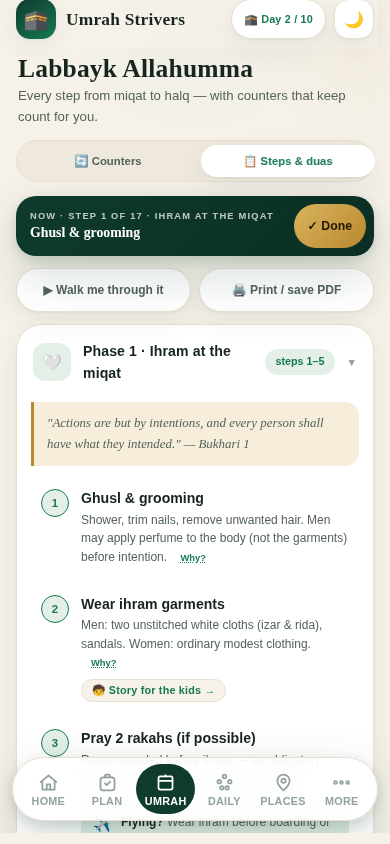
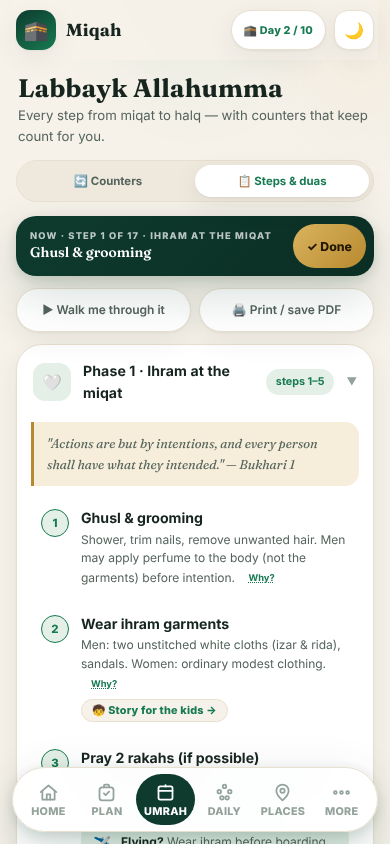
Rename to Miqah
The product is now "Miqah" everywhere a user or a store sees it; the
infrastructure (umrah-strivers.vercel.app, APP_URL, localStorage keys,
cache name, calendar UIDs) is unchanged so existing installs keep working.

- index.html: title, apple-mobile-web-app-title, application-name,
  description, og:title / og:site_name, header wordmark with the tagline
  "Hajj & Umrah companion", About card and correction-mail subject
- app.js: home brand strip, share texts, group-setup text, route and
  itinerary share footers, prayer-times share and .ics branding,
  keepsake / progress-card / certificate wordmark, print sheet, backup
  file name; "sister app of Ramadan Strivers" kept
- manifest.json: name and short_name "Miqah", description mentions
  Hajj & Umrah; twa-manifest.json: packageId com.miqah.app, name and
  launcherName "Miqah"; well-known/assetlinks.json: package_name
- install.html and privacy.html: titles, brand and copy
- README.md: titled Miqah with a note that the repository name is
  historical; LAUNCH.md: store title "Miqah: Hajj & Umrah" and package id
- Store art regenerated with the new wordmark and the tagline
  "Hajj · Umrah · learn, remind, assist": feature graphic, Open Graph
  image, six app screenshots and the framed listing shots; Kaaba mark
  unchanged
- test/smoke.js: brand assertions updated, a new check for the title,
  wordmark and tagline; the compass check also accepts the no-compass
  copy because current headless Chromium denies motion permission
[…]

diff --git a/app.js b/app.js
@@ -1,6 +1,6 @@
-/* Umrah Strivers — application logic */
+/* Miqah — application logic */
 /* Release note: bump APP_VERSION here AND in sw.js for every release (the SW cache name is derived from it). */
-var APP_VERSION='4.15.0';
+var APP_VERSION='5.0.0';
 var APP_URL='https://umrah-strivers.vercel.app/';
 /* ════════════════════════ STATE ════════════════════════ */
 var ST={day:1,tripLen:10,theme:'light',tab:'home',dep:'',umrahs:0,tawaf:0,sai:0,quizBest:0,city:'Makkah'};
@@ -880,7 +880,7 @@ function drawRoute(city){var el=document.getElementById('route-'+city);if(!el)re
 function shareRoute(city){var lr=lastRoute[city];if(!lr)return;var from=originFor(city),route=lr.ids.map(placeById).filter(Boolean),cur=from,lines=[];
   route.forEach(function(p,i){var km=(from&&p.ll)?hav(cur,p.ll):null;if(p.ll)cur=p.ll;lines.push((i+1)+'. '+p.n+(p.ar?' ('+p.ar+')':'')+(km!==null?' — ≈ '+kmStr(km):''));});
   var wp=route.filter(function(p){return p.ll;}).map(function(p){return p.ll[0]+','+p.ll[1];}),url=wp.length?'https://www.google.com/maps/dir/?api=1'+(from?'&origin='+from[0]+','+from[1]:'')+'&destination='+wp[wp.length-1]+(wp.length>1?'&waypoints='+wp.slice(0,-1).join('|'):''):'';
-  shareText('Ziyarah route · '+CITY_N[city],'🧭 Ziyarah route · '+CITY_N[city]+'\n'+lines.join('\n')+'\n(planned with Umrah Strivers)',url);}
+  shareText('Ziyarah route · '+CITY_N[city],'🧭 Ziyarah route · '+CITY_N[city]+'\n'+lines.join('\n')+'\n(planned with Miqah)',url);}
 /* L-05: the same offline driver card serves the hotel and every place (Arabic name in big type) */
 function showDriverCard(o){var tp=document.getElementById('drvTop');if(tp)tp.textContent=o.top||'🚕 Please take me here';
   var lead=document.getElementById('drvLead');if(lead)lead.textContent=o.lead||'من فضلك خذني إلى';
@@ -935,7 +935,7 @@ function exportData(){
   var ls={};for(var i=0;i<localStorage.length;i++){var k=localStorage.key(i);if(k&&k.indexOf('us-')===0&&k!=='us-ptcache'&&k!=='us-remlast')ls[k]=localStorage.getItem(k);}
   var data={v:3,exported:new Date().toISOString(),settings:ST,plan:planChk,rites:riteChk,daily:dailyChk,places:placeVis,badges:earned,ls:ls};
   var b=new Blob([JSON.stringify(data,null,2)],{type:'application/json'});
-  var a=document.createElement('a');a.href=URL.createObjectURL(b);a.download='umrah-strivers-'+new Date().toISOString().slice(0,10)+'.json';document.body.appendChild(a);a.click();setTimeout(function(){a.remove();},500);
+  var a=document.createElement('a');a.href=URL.createObjectURL(b);a.download='miqah-'+new Date().toISOString().slice(0,10)+'.json';document.body.appendChild(a);a.click();setTimeout(function(){a.remove();},500);
   toast('📤 Backup exported');
 }
 function importData(ev){
@@ -1073,7 +1073,7 @@ function renderHome(){
     h+=fcHTML+quoteHTML+'<div class="card card-pad"><h3>Common questions</h3>'+faqHTML+'</div>'+shareHTML;
   }else{
     /* ── dashboard (H-01): brand strip → status → continue / do next → prayer → tools → cards → quote → compact stages → about ── */
-    h+='<div class="hbrand"><span class="hb-n">🕋 Umrah Strivers</span><small>free · offline · private</small>'+installHTML+'</div>';
+    h+='<div class="hbrand"><span class="hb-n">🕋 Miqah</span><small>free · offline · private</small>'+installHTML+'</div>';
     h+=statusHTML;
     /* H-04: one Continue card — in-progress count, then the sa'i hand-off, then an unfinished day log, then today's flashcard */
     var cont='',fcUsed=false;
@@ -1319,7 +1319,7 @@ function sharePrep(){
   var keys=['passport','visa','menacwy','nusuk','rawdah','insurance',ST.profile==='w'?'abaya':'ihram'];
   lines.push('Key items: '+keys.map(function(k){return (planChk[k]?'✓':'✗')+' '+KL[k];}).join(' · '));
   var B=tlBuckets();if(B&&B.over.length)lines.push('Overdue: '+B.over.length+(B.blocking?' ('+B.blocking+' travel-blocking)':''));
-  lines.push('via Umrah Strivers');
+  lines.push('via Miqah');
   shareText('Umrah readiness',lines.join('\n'),APP_URL);
 }
 function renderCatTiles(){
@@ -1471,7 +1471,7 @@ function itReset(idx){var it=itinST();delete it.custom[idx];saveST();renderItin(
 function shareItin(){var base=ST.dep?new Date(ST.dep+'T00:00:00'):null,it=itinST();
   var lines=[(ST.name?ST.name+'’s':'Our')+' Umrah itinerary · '+ST.tripLen+' days'+(base?' from '+fmtDate(ST.dep):'')+(it.pace==='family'?' · family pace':'')];
   itinDays().forEach(function(d,idx){var dt=base?new Date(base.getTime()+idx*86400000).toLocaleDateString('en-GB',{weekday:'short',day:'numeric',month:'short'})+' · ':'';lines.push('Day '+(idx+1)+' · '+dt+(d.city==='Makkah'?'🕋':'🕌')+' '+d.city+' — '+d.e[0]+' '+d.e[1]);});
-  lines.push('via Umrah Strivers');shareText('Umrah itinerary',lines.join('\n'),APP_URL);}
+  lines.push('via Miqah');shareText('Umrah itinerary',lines.join('\n'),APP_URL);}
 
 var ITIN_PLACES={'Tan’eem':'taneem','Ji’ranah':'jiranah','Quba Avenue':'qubasq','Quba':'quba','Uhud':'uhud','Rawdah':'rawdah','Abyar Ali':'miqat','Hira':'hira','Arafat':'arafat','Muzdalifah':'muzdalifah','Mina':'mina','Thawr':'thawr','Baqi’':'baqi','Qiblatayn':'qiblatain','Trench':'khandaq','Hijaz Railway':'hijazrail','Masjid al-Jinn':'jinn','Jannat al-Mu’alla':'mualla','Masjid al-Ijabah':'ijabah','Clock Tower museum':'clock','Quran & Seerah museums':'quranmuseum','Hijr Isma’il':'hijr','Zamzam':'zamzam'};
 var ITIN_RE=new RegExp(Object.keys(ITIN_PLACES).sort(function(a,b){return b.length-a.length;}).map(function(k){return k.replace(/[.*+?^${}()|[\]\\]/g,'\\$&');}).join('|'),'g');
@@ -1487,7 +1487,7 @@ function shareCard(){
   var pv=Object.keys(placeVis).filter(function(k){return placeVis[k];}).length,tb=tbTotal();
   var nt=0;for(var j=1;j<=ST.tripLen;j++){var dd=dailyChk['d'+j];if(dd)nt+=(dd.ntawafN||(dd.ntawaf?1:0));}
   x.textAlign='center';x.font='100px serif';x.fillText('🕋',540,200);
-  x.font='700 40px Georgia,serif';x.fillStyle='#D9B45E';x.fillText('UMRAH STRIVERS',540,280);
+  x.font='700 40px Georgia,serif';x.fillStyle='#D9B45E';x.fillText('MIQAH',540,280);
   x.font='700 56px Georgia,serif';x.fillStyle='#fff';x.fillText((ST.name||'My')+(ST.name?'’s':'')+' journey · Day '+ST.day+' of '+ST.tripLen,540,365);
   var tiles=[[ST.umrahs,'Umrahs'],[nt,'nafl tawafs'],[(logged?Math.round(sum/logged):0)+'%','avg. daily deeds'],[pv,'places visited'],[tb,'dhikr counted'],[streakOf('fajr'),'Fajr streak'],[logged,'days logged']];
   tiles.forEach(function(t,i){var cx=230+(i%3)*310,cy=500+Math.floor(i/3)*190;x.fillStyle='rgba(255,255,255,.08)';x.beginPath();x.roundRect(cx-130,cy-80,260,160,28);x.fill();x.fillStyle='#EFD494';x.font='700 58px Georgia,serif';x.fillText(String(t[0]),cx,cy+6);x.fillStyle='rgba(255,255,255,.7)';x.font='23px Inter,sans-serif';x.fillText(t[1],cx,cy+50);});
@@ -1541,8 +1541,8 @@ function renderVault(){
 /* ════════════════════════ HELPERS ════════════════════════ */
 function jumpTo(id,quiet){var el=document.getElementById(id);if(!el)return;var off=118,strip=document.getElementById('riteNow');if(strip&&el.closest&&el.closest('#sub-umrah-steps')&&strip.offsetParent)off+=strip.offsetHeight+8;var y=el.getBoundingClientRect().top+window.scrollY-off;window.scrollTo({top:Math.max(0,y),behavior:'smooth'});if(!quiet)vib(8);}
 function shareApp(){
-  var data={title:'Umrah Strivers',text:'Plan, learn, perform & track your Umrah — rites walkthrough, tawaf counter, prayer times, ziyarah places & a knowledge quiz. Free, offline, private.',url:APP_URL};
-  if(ST.dep){var dt=new Date(ST.dep+'T00:00:00').toLocaleDateString('en-GB',{weekday:'long',day:'numeric',month:'long'});data.url=APP_URL+'?dep='+ST.dep;data.text='We fly on '+dt+'. Install Umrah Strivers (free, offline, no account): 1) open the link and Add to Home Screen, 2) set the departure date to '+dt+', 3) do the Prepare checklist and pass Quiz levels 1–3 before we go.';}
+  var data={title:'Miqah',text:'Miqah — Hajj & Umrah companion. Plan, learn, perform & track your Umrah — rites walkthrough, tawaf counter, prayer times, ziyarah places & a knowledge quiz. Free, offline, private.',url:APP_URL};
+  if(ST.dep){var dt=new Date(ST.dep+'T00:00:00').toLocaleDateString('en-GB',{weekday:'long',day:'numeric',month:'long'});data.url=APP_URL+'?dep='+ST.dep;data.text='We fly on '+dt+'. Install Miqah (free, offline, no account): 1) open the link and Add to Home Screen, 2) set the departure date to '+dt+', 3) do the Prepare checklist and pass Quiz levels 1–3 before we go.';}
   if(navigator.share){navigator.share(data).catch(function(){});}
   else if(navigator.clipboard){navigator.clipboard.writeText(data.text+' '+data.url).then(function(){toast('🔗 Link copied — share it with your group');}).catch(function(){toast(data.url);});}
   else toast(data.url);
@@ -1569,7 +1569,7 @@ var pendingGroup=null;
 function shareSetup(){var hi=ST.hotelInfo||{};
   var g={by:ST.name||'',dep:ST.dep||'',tripLen:ST.tripLen,itin:ST.itin||null,city:ST.city||'Makkah',hotelInfo:hi,hotel:ST.hotel||null};
   var url=APP_URL+'#g='+btoa(encodeURIComponent(JSON.stringify(g)));
-  var txt=(ST.name?ST.name+'’s':'Our')+' Umrah trip setup'+(ST.dep?' — flying '+fmtDate(ST.dep,true):'')+(hi.n?' · '+hi.n:'')+'. Open the link on your phone and tap Apply: it sets the dates, itinerary and hotel card in Umrah Strivers (free, offline). Your own checklists are untouched.';
+  var txt=(ST.name?ST.name+'’s':'Our')+' Umrah trip setup'+(ST.dep?' — flying '+fmtDate(ST.dep,true):'')+(hi.n?' · '+hi.n:'')+'. Open the link on your phone and tap Apply: it sets the dates, itinerary and hotel card in Miqah (free, offline). Your own checklists are untouched.';
   shareText('Umrah trip setup',txt,url);}
 function parseGroupLink(){var h=location.hash||'';if(h.indexOf('#g=')!==0)return null;var out=null;
   try{var g=JSON.parse(decodeURIComponent(atob(h.slice(3))));if(g&&typeof g==='object'){out={};['by','dep','tripLen','itin','city','hotelInfo','hotel'].forEach(function(k){if(g[k]!==undefined)out[k]=g[k];});}}catch(e){out=null;}
@@ -1729,7 +1729,7 @@ function makeCertGo(){
   x.strokeStyle='rgba(217,180,94,.4)';x.lineWidth=2;x.strokeRect(70,70,940,1210);
   x.textAlign='center';x.fillStyle='#EFD494';
   x.font='120px serif';x.fillText('🕋',540,270);
-  x.font='700 44px Georgia,serif';x.fillStyle='#D9B45E';x.fillText('UMRAH STRIVERS',540,370);
+  x.font='700 44px Georgia,serif';x.fillStyle='#D9B45E';x.fillText('MIQAH',540,370);
   x.font='italic 30px Georgia,serif';x.fillStyle='rgba(255,255,255,.7)';x.fillText('Certificate of Knowledge',540,425);
   x.font='700 72px Georgia,serif';x.fillStyle='#FFFFFF';x.fillText(name,540,580);
   x.strokeStyle='rgba(217,180,94,.6)';x.lineWidth=2;x.beginPath();x.moveTo(240,620);x.lineTo(840,620);x.stroke();
@@ -1911,7 +1911,7 @@ function walkDone(){var L=riteList(),x=L[walkI];if(x&&!riteChk[x.st.id])togRite(
 function closeWalk(quiet){var L=riteList(),x=L[walkI];walkOpen=false;document.getElementById('walk').classList.remove('on');document.body.style.overflow='';
   if(!quiet){if(x)openRiteStep(x.st.id);else{setSecOpen('ph4',true);jumpTo('riteDone',true);}}}
 /* U-14: a printable briefing — rites with duas, the packing list and the emergency numbers */
-function buildPrint(){var e=document.getElementById('printSheet');if(!e)return;var hi=ST.hotelInfo||{},n=0,h='<h1>🕋 Umrah Strivers — rites &amp; duas</h1><p class="pr-sub">Printed '+new Date().toLocaleDateString('en-GB',{day:'numeric',month:'long',year:'numeric'})+(ST.name?' for '+esc(ST.name):'')+' · umrah-strivers.vercel.app</p>';
+function buildPrint(){var e=document.getElementById('printSheet');if(!e)return;var hi=ST.hotelInfo||{},n=0,h='<h1>🕋 Miqah — rites &amp; duas</h1><p class="pr-sub">Printed '+new Date().toLocaleDateString('en-GB',{day:'numeric',month:'long',year:'numeric'})+(ST.name?' for '+esc(ST.name):'')+' · umrah-strivers.vercel.app</p>';
   RITES.forEach(function(ph){h+='<h2>'+ph.ico+' '+ph.title+'</h2><ol start="'+(n+1)+'">';ph.steps.forEach(function(st){if(!forMe(st))return;n++;h+='<li><b>'+st.b+'</b> — '+st.p+stDuas(st).map(function(d){return '<div class="pr-dua"><span class="ar">'+d.ar+'</span><i>'+d.tl+'</i><br>'+d.tr+'</div>';}).join('')+'</li>';});h+='</ol>';});
   var pack=PLAN.filter(function(sc){return sc.id==='pack';})[0];if(pack)h+='<h2>🧳 Packing</h2><ul class="pr-pack">'+pack.items.filter(forMe).map(function(it){return '<li>☐ '+it.label+'</li>';}).join('')+'</ul>';
   h+='<h2>☎ Emergency &amp; help</h2><p>Police · ambulance · fire <b>911</b> · Health line <b>937</b> · Hajj &amp; Umrah care <b>1966</b> · Tourism <b>930</b>'+(hi.n?'<br>Hotel: <b>'+esc(hi.n)+'</b>'+(hi.a?' · '+esc(hi.a):'')+(hi.p?' · ☎ '+esc(hi.p):''):'')+(hi.m?'<br>Meeting point: <b>'+esc(hi.m)+'</b>':'')+(hi.l?'<br>Companion / leader: <b>'+esc(hi.l)+'</b>':'')+'</p>';
@@ -2107,15 +2107,15 @@ function sharePT(){if(!ptData)return;var city=ST.city||'Makkah',ex=expectedDay()
   PT_NAMES.forEach(function(nm){var t=cl(ptData.t[nm]);lines.push(ptLabel(nm)+' '+t+(lead?' → leave hotel '+minHM(ptMin(t)-lead):''));});
   if(hi.m)lines.push('📍 Meet: '+hi.m);
   if(isFriday())lines.push('Jumu’ah today — arrive 1–2 h early');
-  lines.push((ptSrc==='calc'?'Computed times (±2 min) — follow the adhan':'Umm al-Qura times')+' · via Umrah Strivers');
+  lines.push((ptSrc==='calc'?'Computed times (±2 min) — follow the adhan':'Umm al-Qura times')+' · via Miqah');
   shareText('Prayer times · '+city,lines.join('\n'),APP_URL);}
 /* D-23: a week of prayer alerts as .ics (TZID=Asia/Riyadh) — share sheet on phones, download elsewhere */
 function icsDT(y,m,d,hm){return y+('0'+(m+1)).slice(-2)+('0'+d).slice(-2)+'T'+cl(hm).replace(':','')+'00';}
 function buildICS(city,days){var now=riyadhNow(),ev=[],calc=0,stamp=new Date().toISOString().replace(/[-:]/g,'').replace(/\.\d+/,'');
   for(var i=0;i<days;i++){var dt=new Date(now.getFullYear(),now.getMonth(),now.getDate()+i),y=dt.getFullYear(),m=dt.getMonth(),d=dt.getDate(),P=ptFor(city,y,m,d);if(P.calc)calc++;
     PT_NAMES.forEach(function(nm){var t=cl(P.t[nm]),jum=dt.getDay()===5&&nm==='Dhuhr',lbl=jum?'Jumu’ah':nm;
-      ev.push(['BEGIN:VEVENT','UID:us-'+city.toLowerCase()+'-'+icsDT(y,m,d,t)+'-'+nm.toLowerCase()+'@umrah-strivers','DTSTAMP:'+stamp,'DTSTART;TZID=Asia/Riyadh:'+icsDT(y,m,d,t),'DTEND;TZID=Asia/Riyadh:'+icsDT(y,m,d,minHM(ptMin(t)+30)),'SUMMARY:'+lbl+' — '+city,'DESCRIPTION:'+(P.calc?'Computed times (±2 min) · follow the adhan':'Umm al-Qura times')+' · Umrah Strivers','BEGIN:VALARM','TRIGGER:-PT'+(jum?'60':'20')+'M','ACTION:DISPLAY','DESCRIPTION:'+lbl+' in '+(jum?'60':'20')+' min — '+city,'END:VALARM','END:VEVENT'].join('\r\n'));});}
-  return {calc:calc,n:ev.length,ics:['BEGIN:VCALENDAR','VERSION:2.0','PRODID:-//Umrah Strivers//EN','CALSCALE:GREGORIAN','BEGIN:VTIMEZONE','TZID:Asia/Riyadh','BEGIN:STANDARD','DTSTART:19700101T000000','TZOFFSETFROM:+0300','TZOFFSETTO:+0300','TZNAME:AST','END:STANDARD','END:VTIMEZONE'].join('\r\n')+'\r\n'+ev.join('\r\n')+'\r\nEND:VCALENDAR\r\n'};}
+      ev.push(['BEGIN:VEVENT','UID:us-'+city.toLowerCase()+'-'+icsDT(y,m,d,t)+'-'+nm.toLowerCase()+'@umrah-strivers','DTSTAMP:'+stamp,'DTSTART;TZID=Asia/Riyadh:'+icsDT(y,m,d,t),'DTEND;TZID=Asia/Riyadh:'+icsDT(y,m,d,minHM(ptMin(t)+30)),'SUMMARY:'+lbl+' — '+city,'DESCRIPTION:'+(P.calc?'Computed times (±2 min) · follow the adhan':'Umm al-Qura times')+' · Miqah','BEGIN:VALARM','TRIGGER:-PT'+(jum?'60':'20')+'M','ACTION:DISPLAY','DESCRIPTION:'+lbl+' in '+(jum?'60':'20')+' min — '+city,'END:VALARM','END:VEVENT'].join('\r\n'));});}
+  return {calc:calc,n:ev.length,ics:['BEGIN:VCALENDAR','VERSION:2.0','PRODID:-//Miqah//EN','CALSCALE:GREGORIAN','BEGIN:VTIMEZONE','TZID:Asia/Riyadh','BEGIN:STANDARD','DTSTART:19700101T000000','TZOFFSETFROM:+0300','TZOFFSETTO:+0300','TZNAME:AST','END:STANDARD','END:VTIMEZONE'].join('\r\n')+'\r\n'+ev.join('\r\n')+'\r\nEND:VCALENDAR\r\n'};}
 function exportICS(){var city=ST.city||'Makkah',B=buildICS(city,7),name='prayer-times-'+city.toLowerCase()+'-week.ics',blob=new Blob([B.ics],{type:'text/calendar'});
   var s=document.getElementById('icsSub');if(s)s.textContent='7 days · '+city+' · '+(B.calc?B.calc+' day'+(B.calc===1?'':'s')+' computed (±2 min), the rest Umm al-Qura':'Umm al-Qura times')+' · 20-min alert (60 for Jumu’ah)';
   var file=null;try{file=new File([blob],name,{type:'text/calendar'});}catch(e){}

diff --git a/index.html b/index.html
@@ -5,17 +5,17 @@
 <meta name="viewport" content="width=device-width, initial-scale=1.0, viewport-fit=cover, maximum-scale=5">
 <meta name="apple-mobile-web-app-capable" content="yes">
 <meta name="apple-mobile-web-app-status-bar-style" content="black-translucent">
-<meta name="apple-mobile-web-app-title" content="Umrah Strivers">
+<meta name="apple-mobile-web-app-title" content="Miqah">
 <meta name="theme-color" content="#0E3B2E">
-<meta name="description" content="Umrah Strivers — plan, learn, perform & track your Umrah. Places to visit, rites walkthrough, tawaf counter & daily worship tracker.">
-<title>Umrah Strivers</title>
+<meta name="description" content="Miqah — your Hajj & Umrah companion. Plan, learn, perform & track your Umrah. Places to visit, rites walkthrough, tawaf counter & daily worship tracker.">
+<title>Miqah</title>
 <link rel="manifest" href="manifest.json">
 <link rel="icon" type="image/png" sizes="32x32" href="icons/favicon-32.png">
 <link rel="icon" type="image/png" sizes="16x16" href="icons/favicon-16.png">
 <link rel="apple-touch-icon" href="icons/apple-touch-icon.png">
 <meta name="mobile-web-app-capable" content="yes">
-<meta name="application-name" content="Umrah Strivers">
-<meta property="og:title" content="Umrah Strivers">
+<meta name="application-name" content="Miqah">
+<meta property="og:title" content="Miqah — Hajj &amp; Umrah companion">
 <meta property="og:description" content="Plan, learn, perform & track your Umrah — rites walkthrough, tawaf counter, prayer times, qibla, ziyarah places & daily worship tracker.">
 <meta property="og:type" content="website">
 <meta property="og:url" content="https://umrah-strivers.vercel.app/">
@@ -23,7 +23,7 @@
 <meta property="og:image" content="https://umrah-strivers.vercel.app/icons/og-image.png">
 <meta property="og:image:width" content="1200">
 <meta property="og:image:height" content="630">
-<meta property="og:site_name" content="Umrah Strivers">
+<meta property="og:site_name" content="Miqah">
 <link rel="preconnect" href="https://fonts.gstatic.com" crossorigin>
 <link href="https://fonts.googleapis.com/css2?family=Fraunces:ital,opsz,wght@0,9..144,400;0,9..144,600;0,9..144,700;1,9..144,400;1,9..144,600&family=Inter:wght@400;500;600;700;800&display=swap" rel="stylesheet" media="print" onload="this.media='all'">
 <noscript><link href="https://fonts.googleapis.com/css2?family=Fraunces:ital,opsz,wght@0,9..144,400;0,9..144,600;0,9..144,700;1,9..144,400;1,9..144,600&family=Inter:wght@400;500;600;700;800&display=swap" rel="stylesheet"></noscript>
@@ -1007,7 +1007,7 @@ html[data-text='lg'] body{font-size:17px}
 
 <div class="app">
 <div class="top">
-  <div class="brand"><div class="brand-mark">🕋</div><h1>Umrah Strivers<small>Your Umrah companion</small></h1></div>
+  <div class="brand"><div class="brand-mark">🕋</div><h1>Miqah<small>Hajj &amp; Umrah companion</small></h1></div>
   <div style="display:flex;align-items:center;gap:8px"><button class="chip gold" id="updChip" hidden onclick="applyUpdate()" title="A new version is ready — tap to reload" aria-label="Update ready, tap to reload">⬆ Update<span onclick="event.stopPropagation();dismissUpdate()" role="button" aria-label="Dismiss">✕</span></button><button class="chip" id="jChip" onclick="goTab('plan')" aria-label="Journey status">🧭 Plan</button><button class="iconbtn" onclick="toggleTheme()" aria-label="Toggle theme"><span id="themeIcon">🌙</span></button></div>
 </div>
 
@@ -1290,7 +1290,7 @@ html[data-text='lg'] body{font-size:17px}
   <div class="card card-pad" id="aboutCard"><h3>📖 About &amp; sources</h3>
     <p style="font-size:.84em;color:var(--ink2);line-height:1.65">Everything lives on your device only — no accounts, no servers, no tracking. Every hadith in this app is cited to its collection (Bukhari, Muslim, Tirmidhi, Ibn Majah, Nasai, Abu Dawud) and has been checked against the source text; paraphrases are kept faithful and weak narrations are avoided or marked. This app is a study companion, <b>not a fatwa service</b> — for rulings about your specific situation, ask a qualified scholar.</p>
     <div class="note" style="margin:10px 0 12px"><b>Review status:</b> citations verified against source texts · <b>scholar review: pending</b> — if you are a qualified scholar willing to review, please get in touch.</div>
-    <div style="display:flex;align-items:center;justify-content:space-between;gap:10px;flex-wrap:wrap"><span style="font-size:.8em;color:var(--ink2)"><b style="color:var(--ink)">Umrah Strivers</b> · v<span id="verLbl"></span> · Free · Offline · Private · No ads</span><a class="chip-btn" style="text-decoration:none" href="mailto:m.farhan.bava@gmail.com?subject=Umrah%20Strivers%20correction">✉ Send a correction</a></div>
+    <div style="display:flex;align-items:center;justify-content:space-between;gap:10px;flex-wrap:wrap"><span style="font-size:.8em;color:var(--ink2)"><b style="color:var(--ink)">Miqah</b> · v<span id="verLbl"></span> · Free · Offline · Private · No ads</span><a class="chip-btn" style="text-decoration:none" href="mailto:m.farhan.bava@gmail.com?subject=Miqah%20correction">✉ Send a correction</a></div>
   </div>
 
   <div class="card card-pad"><h3>🔗 Official &amp; helpful links</h3>

diff --git a/test/smoke.js b/test/smoke.js
@@ -1,4 +1,4 @@
-/* Umrah Strivers smoke tests — run: npm test  (needs Chromium; set CHROME=/path/to/chromium if not auto-detected) */
+/* Miqah smoke tests — run: npm test  (needs Chromium; set CHROME=/path/to/chromium if not auto-detected) */
 const path = require('path');
 const { chromium } = require('playwright-core');
 const URL = 'file://' + path.resolve(__dirname, '../index.html');
@@ -23,8 +23,9 @@ function check(name, cond, extra) { console.log((cond ? '  ✓ ' : '  ✗ ') + n
 
   console.log('Home');
   check('opens on Home', (await page.getAttribute('.view.on', 'id')) === 'view-home');
+  check('brand is Miqah: title, header wordmark and tagline, no old name anywhere in the shell', (await page.title()) === 'Miqah' && (await page.textContent('.brand h1')).startsWith('Miqah') && (await page.textContent('.brand h1 small')) === 'Hajj & Umrah companion' && (await page.evaluate(() => !document.body.innerHTML.includes('Umrah Strivers'))));
   check('journey chip counts down + no update chip', (await page.textContent('#jChip')).includes('day') && (await page.locator('#updChip').isHidden()));
-  check('onboarded: brand strip, greeting split from the date, one expanded stage + 4 compact rows, About folded', (await page.locator('.hhero').count()) === 0 && (await page.textContent('.hbrand')).includes('Umrah Strivers') && (await page.textContent('.hs-t .hs-g')).includes('Test') && (await page.locator('.hs-t .hs-d').count()) === 1 && (await page.locator('.stage.now').count()) === 1 && (await page.locator('.stage.cmp').count()) === 4 && (await page.locator('.stage.cmp p').count()) === 0 && (await page.locator('#sec-about.shut').count()) === 1 && (await page.evaluate(() => document.querySelector('.stage.now .stage-b p').textContent.includes(QUIZ_LEVELS.length + '-level quiz'))));
+  check('onboarded: brand strip, greeting split from the date, one expanded stage + 4 compact rows, About folded', (await page.locator('.hhero').count()) === 0 && (await page.textContent('.hbrand')).includes('Miqah') && (await page.textContent('.hs-t .hs-g')).includes('Test') && (await page.locator('.hs-t .hs-d').count()) === 1 && (await page.locator('.stage.now').count()) === 1 && (await page.locator('.stage.cmp').count()) === 4 && (await page.locator('.stage.cmp p').count()) === 0 && (await page.locator('#sec-about.shut').count()) === 1 && (await page.evaluate(() => document.querySelector('.stage.now .stage-b p').textContent.includes(QUIZ_LEVELS.length + '-level quiz'))));
   check('planner: Do next lists the overdue basics + the quiz level and names the CTA', (await page.locator('.hnext .tli').count()) === 4 && (await page.textContent('.hnext .tli >> nth=0')).includes('Passport') && (await page.textContent('.hnext .tli-when >> nth=0')) === 'overdue' && (await page.textContent('.hnext .tli >> nth=3')).includes('Quiz level 1') && (await page.textContent('.hs-t .hcta')).startsWith('Overdue: Passport') && (await page.textContent('.hs-r em')) === 'Go →' && (await page.evaluate(() => document.querySelector('.hnext').compareDocumentPosition(document.querySelector('.hfc')) & Node.DOCUMENT_POSITION_FOLLOWING)) > 0);
   await page.click('.hnext .tli >> nth=0'); await page.waitForTimeout(600);
   const homeFirst = await page.textContent('.hnext .tli >> nth=0');
@@ -246,7 +247,7 @@ function check(name, cond, extra) { console.log((cond ? '  ✓ ' : '  ✗ ') + n
   check('water counter', (await page.textContent('#waterLbl')).startsWith('1 cup today') && (await page.locator('#waterCard #kmLbl').count()) === 0);
   await page.evaluate(() => startQibla()); await page.waitForTimeout(800);
   check('qibla bearing computed', /\d+°/.test(await page.textContent('#qbDeg')));
-  check('compass button toggles to Stop and the copy says how to hold the phone', (await page.textContent('#qbBtn')).includes('Stop') && (await page.evaluate(() => qbActive)) && (await page.textContent('#qbStatus')).includes('Hold the phone flat'));
+  check('compass button toggles to Stop and the copy says how to hold the phone', (await page.textContent('#qbBtn')).includes('Stop') && (await page.evaluate(() => qbActive)) && (await page.textContent('#qbStatus')).match(/Hold the phone flat|No compass access — face North/) !== null); // headless Chromium denies DeviceOrientationEvent.requestPermission without a gesture, so the no-compass copy is also correct
   await page.evaluate(() => goTab('home'));
   check('leaving Tools stops the compass', (await page.evaluate(() => qbActive)) === false && (await page.textContent('#qbBtn')).includes('Start'));
   await page.evaluate(() => goTab('daily'));

diff --git a/install.html b/install.html
@@ -3,13 +3,13 @@
 <head>
 <meta charset="UTF-8">
 <meta name="viewport" content="width=device-width, initial-scale=1.0, viewport-fit=cover">
-<title>Get Umrah Strivers — free, offline Umrah companion</title>
-<meta name="description" content="Install Umrah Strivers on your phone. Plan, learn, perform and track your Umrah. Free, works offline in the Haram, no account, nothing leaves your phone.">
+<title>Get Miqah — free, offline Hajj &amp; Umrah companion</title>
+<meta name="description" content="Install Miqah on your phone, your Hajj & Umrah companion. Plan, learn, perform and track your Umrah. Free, works offline in the Haram, no account, nothing leaves your phone.">
 <link rel="manifest" href="manifest.json">
 <link rel="icon" type="image/png" sizes="32x32" href="icons/favicon-32.png">
 <link rel="apple-touch-icon" href="icons/apple-touch-icon.png">
 <meta name="theme-color" content="#0E3B2E">
-<meta property="og:title" content="Umrah Strivers — free, offline Umrah companion">
+<meta property="og:title" content="Miqah — free, offline Hajj &amp; Umrah companion">
 <meta property="og:description" content="Plan, learn, perform and track your Umrah. Free, offline, private.">
 <meta property="og:image" content="https://umrah-strivers.vercel.app/icons/og-image.png">
 <meta property="og:url" content="https://umrah-strivers.vercel.app/install">
@@ -92,7 +92,7 @@ footer p+p{margin-top:8px}
 <div class="wrap">
 
   <header class="hero">
-    <img class="mk" src="icons/icon-512.png" alt="Umrah Strivers">
+    <img class="mk" src="icons/icon-512.png" alt="Miqah">
     <h1>Arrive knowing exactly what to do</h1>
     <p class="tag">Plan it, learn it, walk every rite with the duas in your hand, and count your tawaf without losing your place.</p>
     <div class="trust"><span>Free</span><span>Works offline</span><span>No account</span><span>No ads or tracking</span><span>Every hadith verified</span></div>
@@ -169,7 +169,7 @@ footer p+p{margin-top:8px}
     if (kind === 'prompt') {
       lbl.textContent = 'Android · Chrome';
       title.textContent = 'Install it in one tap';
-      body.innerHTML = '<button class="btn" id="doInstall">Install Umrah Strivers</button>' +
+      body.innerHTML = '<button class="btn" id="doInstall">Install Miqah</button>' +
         '<p class="note">It installs straight from this page. No store account, no download queue, about half a megabyte.</p>';
       document.getElementById('doInstall').addEventListener('click', function () {
         if (!deferred) return;

diff --git a/privacy.html b/privacy.html
@@ -3,8 +3,8 @@
 <head>
 <meta charset="UTF-8">
 <meta name="viewport" content="width=device-width, initial-scale=1.0, viewport-fit=cover">
-<title>Privacy Policy — Umrah Strivers</title>
-<meta name="description" content="Umrah Strivers collects no data at all. No account, no servers, no analytics, no ads. Everything you enter stays on your device.">
+<title>Privacy Policy — Miqah</title>
+<meta name="description" content="Miqah collects no data at all. No account, no servers, no analytics, no ads. Everything you enter stays on your device.">
 <link rel="icon" type="image/png" sizes="32x32" href="icons/favicon-32.png">
 <meta name="theme-color" content="#0E3B2E">
 <link rel="preconnect" href="https://fonts.gstatic.com" crossorigin>
@@ -36,7 +36,7 @@ footer{margin-top:44px;padding-top:20px;border-top:1px solid var(--line);font-si
 <div class="wrap">
   <div class="top">
     <img src="icons/icon-192.png" alt="">
-    <div><b>Umrah Strivers</b><small>Free · offline · private</small></div>
+    <div><b>Miqah</b><small>Hajj &amp; Umrah companion · free · offline · private</small></div>
   </div>
 
   <h1>Privacy Policy</h1>
@@ -88,7 +88,7 @@ footer{margin-top:44px;padding-top:20px;border-top:1px solid var(--line);font-si
   <p>For questions about this policy or about the app, use the contact link shown in the app's About section.</p>
 
   <footer>
-    <p><a href="/">Back to Umrah Strivers</a></p>
+    <p><a href="/">Back to Miqah</a></p>
   </footer>
 </div>
 </body>

diff --git a/data.js b/data.js
@@ -1,4 +1,4 @@
-/* Umrah Strivers — content & data (edit here to change text, places, quiz, duas) */
+/* Miqah — content & data (edit here to change text, places, quiz, duas) */
 /* ════════════════════════ DATA ════════════════════════ */
 var QUOTES=[
 '"Perform Umrah after Umrah, for the two of them wipe away whatever sins came between them." — Bukhari 1773',

diff --git a/sw.js b/sw.js
@@ -1,6 +1,6 @@
-/* Umrah Strivers — offline service worker */
+/* Miqah — offline service worker */
 /* Release note: bump APP_VERSION here AND at the top of app.js for every release. */
-var APP_VERSION = '4.15.0';
+var APP_VERSION = '5.0.0';
 var CACHE = 'umrah-strivers-' + APP_VERSION;
 var CORE = ['./', './index.html', './data.js', './app.js', './manifest.json',
   './icons/icon-192.png', './icons/icon-512.png', './icons/maskable-192.png',

diff --git a/LAUNCH.md b/LAUNCH.md
@@ -1,4 +1,6 @@
-# Launching Umrah Strivers
+# Launching Miqah
+
+Store title: **Miqah: Hajj & Umrah**. Android package id: `com.miqah.app` (set in `twa-manifest.json` and `well-known/assetlinks.json`). The web address `umrah-strivers.vercel.app` is the historical name and stays as is.
 
 Everything in this repository is ready. What remains needs your accounts and your signing key, which only you should hold.
 
@@ -55,7 +57,8 @@ One payment of **$25**. It never renews.
    | App icon, 512×512 | `icons/store-icon-512.png` |
    | Feature graphic, 1024×500 | `icons/feature-graphic.png` |
    | Phone screenshots, 1080×1920 | ask me for the framed set, or use `icons/shot-*.png` |
-   | Short and full description | The **Umrah Strivers Brief**, copy blocks section |
+   | Store title | `Miqah: Hajj & Umrah` |
+   | Short and full description | The **Miqah Brief**, copy blocks section |
    | Privacy policy URL | `https://umrah-strivers.vercel.app/privacy` |
 
 5. **Data safety form.** Answer *no data collected* and *no data shared*. This is accurate. Declare the optional location, sensor and notification permissions as used on-device only.

diff --git a/README.md b/README.md
@@ -1,6 +1,8 @@
-# 🕋 Umrah Strivers
+# 🕋 Miqah
 
-**The Journey of a Lifetime** — plan, learn, perform and track your Umrah. The sister app to [Ramadan Strivers](https://www.ramadanstrivers.com/).
+**Hajj & Umrah companion** — plan, learn, perform and track your Umrah. The sister app to [Ramadan Strivers](https://www.ramadanstrivers.com/).
+
+> The app was previously called *Umrah Strivers*; the repository name `Umrah-strivers` and the `umrah-strivers.vercel.app` address are historical and still work.
 
 An offline-first web app (`index.html` + `data.js` + `app.js`, zero build step). No accounts, no servers, no tracking — all data stays on your device, with export/import backup and an encrypted document vault.
 
